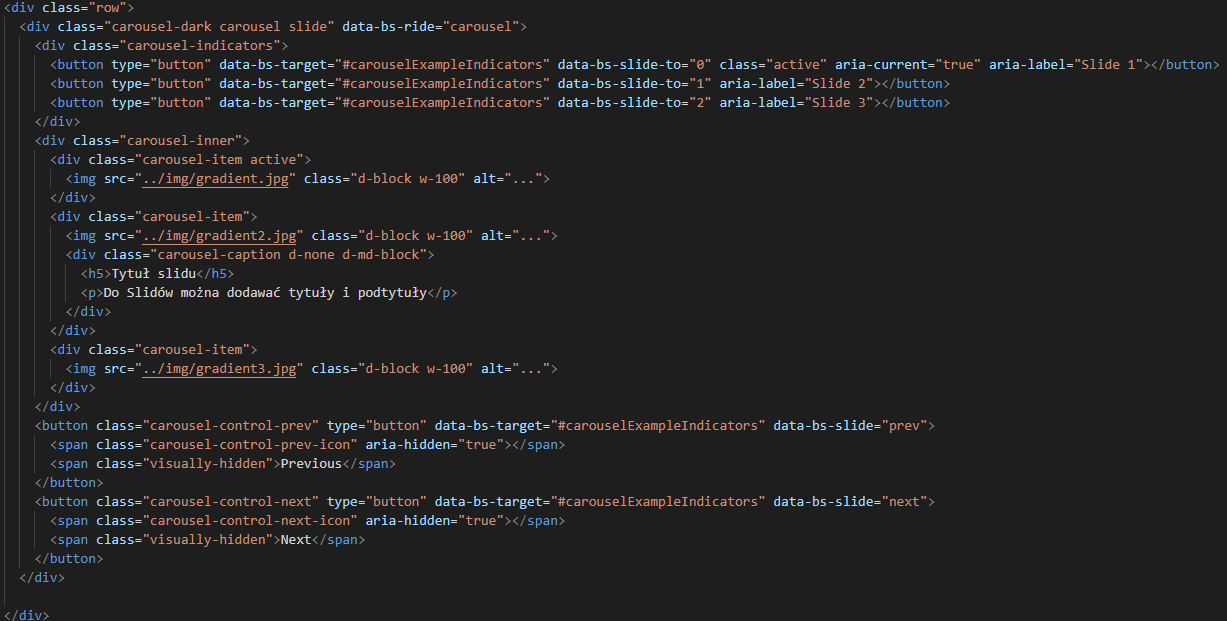
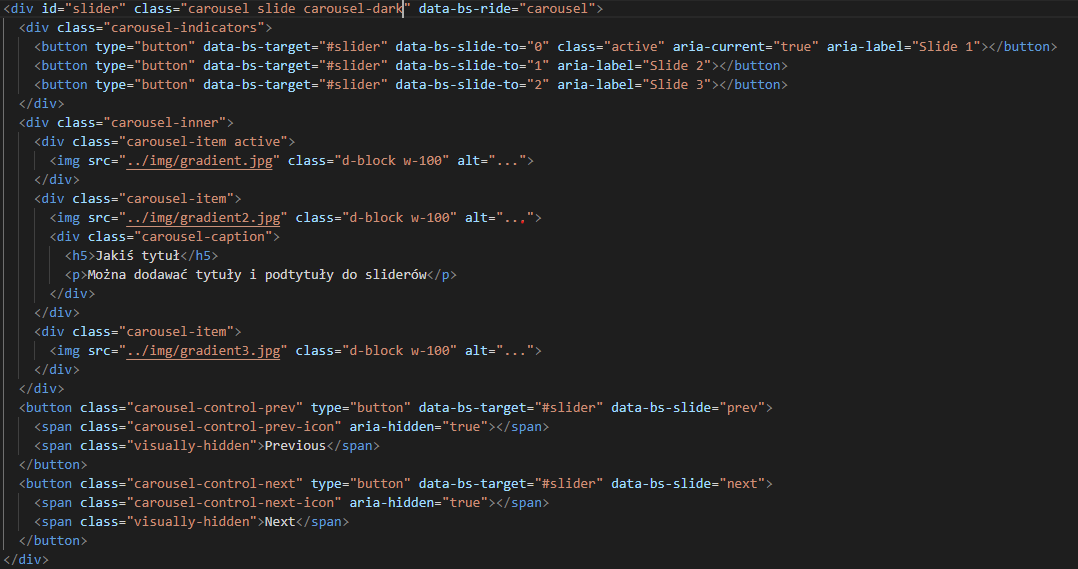
lekkie poprawki
małe poprawki w kodzie. Naprawienie slidera

Changed region(s): [[0.0, 0.0, 1.0, 1.0]]

diff --git a/Bootstrap - Elementy/slides/05.html b/Bootstrap - Elementy/slides/05.html
@@ -29,11 +29,11 @@
             <h2 class="col-12 col-md-10 col-xl-8 text-center mt-5 h-10">Slidery (karuzele)</h2>
         </div>
         <div class="row">
-          <div class="carousel-dark carousel slide" data-bs-ride="carousel">
+          <div id="slider" class="carousel slide carousel-dark" data-bs-ride="carousel">
             <div class="carousel-indicators">
-              <button type="button" data-bs-target="#carouselExampleIndicators" data-bs-slide-to="0" class="active" aria-current="true" aria-label="Slide 1"></button>
-              <button type="button" data-bs-target="#carouselExampleIndicators" data-bs-slide-to="1" aria-label="Slide 2"></button>
-              <button type="button" data-bs-target="#carouselExampleIndicators" data-bs-slide-to="2" aria-label="Slide 3"></button>
+              <button type="button" data-bs-target="#slider" data-bs-slide-to="0" class="active" aria-current="true" aria-label="Slide 1"></button>
+              <button type="button" data-bs-target="#slider" data-bs-slide-to="1" aria-label="Slide 2"></button>
+              <button type="button" data-bs-target="#slider" data-bs-slide-to="2" aria-label="Slide 3"></button>
             </div>
             <div class="carousel-inner">
               <div class="carousel-item active">
@@ -41,20 +41,20 @@
               </div>
               <div class="carousel-item">
                 <img src="../img/gradient2.jpg" class="d-block w-100" alt="...">
-                <div class="carousel-caption d-none d-md-block">
-                  <h5>Tytuł slidu</h5>
-                  <p>Do Slidów można dodawać tytuły i podtytuły</p>
+                <div class="carousel-caption">
+                  <h5>Jakiś tytuł</h5>
+                  <p>Można dodawać tytuły i podtytuły do sliderów</p>
                 </div>
               </div>
               <div class="carousel-item">
                 <img src="../img/gradient3.jpg" class="d-block w-100" alt="...">
               </div>
             </div>
-            <button class="carousel-control-prev" type="button" data-bs-target="#carouselExampleIndicators" data-bs-slide="prev">
+            <button class="carousel-control-prev" type="button" data-bs-target="#slider" data-bs-slide="prev">
               <span class="carousel-control-prev-icon" aria-hidden="true"></span>
               <span class="visually-hidden">Previous</span>
             </button>
-            <button class="carousel-control-next" type="button" data-bs-target="#carouselExampleIndicators" data-bs-slide="next">
+            <button class="carousel-control-next" type="button" data-bs-target="#slider" data-bs-slide="next">
               <span class="carousel-control-next-icon" aria-hidden="true"></span>
               <span class="visually-hidden">Next</span>
             </button>

diff --git a/Bootstrap - Info/css/nav-styles.css b/Bootstrap - Info/css/nav-styles.css
@@ -10,7 +10,6 @@ ul {
     rgba(113, 44, 249, 1) 35%,
     rgba(76, 11, 206, 1) 76%
   );
-  box-shadow: 2px 2px 6px 0 black;
 }
 
 li {
@@ -19,17 +18,17 @@ li {
 
 li:not(:first-child) a {
   display: block;
-  color: black;
+  color: white;
   text-align: center;
-  font-size: 2rem;
+  font-size: 2.5vw;
   padding: 0.8vw 1.2vw;
   text-decoration: none;
 }
 li a{
   display: block;
-  color: black;
+  color: white;
   text-align: center;
-  font-size: 2rem;
+  font-size: 2.5vw;
   text-decoration: none;
 }
 
@@ -40,8 +39,8 @@ li a:hover {
   margin-top: 0.4vw;
   margin-right: 1vw;
   margin-left: 2vw;
-  width: 80px;
-  height: 60px;
+  width: 4.8vw;
+  height: 3.6vw;
 }
 li .logo {
   display: block;

diff --git a/Bootstrap - Elementy/css/styles.css b/Bootstrap - Elementy/css/styles.css
@@ -17,33 +17,35 @@
 }
 .stick-right{
     position: fixed;
-    bottom: calc(50% - 50px);
+    bottom: calc(50% - 10rem);
     right: 2rem;
 }
 .stick-left{
     position: fixed;
-    bottom: calc(50% - 50px);
+    bottom: calc(50% - 10rem);
     left: 2rem;
 }
 .left-12{
     left: 12.5%;
 }
 .back-btn{
-    font-size: 4em;
+    font-size: 12rem;
     text-decoration: none;
     color: inherit;
     transition: all 0.5s;
 }
 .back-btn:hover{
     transform: scale(1.1);
+    color: inherit;
 }
 .br-1{
     border-radius: 1rem;
 }
 .carousel-item img{
-    width: 100%;
     height: 500px;
+    width: 100%;
 }
+
 @media screen and (min-width: 768px){
     .text-md-large{
         font-size: 1.5em;

diff --git a/Bootstrap - Elementy/css/nav-styles.css b/Bootstrap - Elementy/css/nav-styles.css
@@ -19,17 +19,17 @@ li {
 
 li:not(:first-child) a {
   display: block;
-  color: black;
+  color: white;
   text-align: center;
-  font-size: 2rem;
+  font-size: 2.5vw;
   padding: 0.8vw 1.2vw;
   text-decoration: none;
 }
 li a{
   display: block;
-  color: black;
+  color: white;
   text-align: center;
-  font-size: 2rem;
+  font-size: 2.5vw;
   text-decoration: none;
 }
 
@@ -40,8 +40,8 @@ li a:hover {
   margin-top: 0.4vw;
   margin-right: 1vw;
   margin-left: 2vw;
-  width: 80px;
-  height: 60px;
+  width: 4.8vw;
+  height: 3.6vw;
 }
 li .logo {
   display: block;

diff --git a/Bootstrap - Info/css/styles.css b/Bootstrap - Info/css/styles.css
@@ -17,25 +17,26 @@
 }
 .stick-right{
     position: fixed;
-    bottom: calc(50% - 50px);
+    bottom: calc(50% - 10rem);
     right: 2rem;
 }
 .stick-left{
     position: fixed;
-    bottom: calc(50% - 50px);
+    bottom: calc(50% - 10rem);
     left: 2rem;
 }
 .left-12{
     left: 12.5%;
 }
 .back-btn{
-    font-size: 4em;
+    font-size: 12rem;
     text-decoration: none;
     color: inherit;
     transition: all 0.5s;
 }
 .back-btn:hover{
     transform: scale(1.1);
+    color: inherit;
 }
 @media screen and (min-width: 768px){
     .text-md-large{

diff --git a/Main-styles/main.css b/Main-styles/main.css
@@ -30,7 +30,7 @@ ul {
   
   li a {
     display: block;
-    color: black;
+    color: white;
     text-align: center;
     font-size: 2rem;
     padding: 0.8vw 1.2vw;
@@ -38,6 +38,6 @@ ul {
   }
   
   li a:hover {
-    color: inherit;
+    color: white;
     background-color: rgb(137, 29, 232);
   }

diff --git a/Bootstrap - Elementy/slides/06.html b/Bootstrap - Elementy/slides/06.html
@@ -36,7 +36,7 @@
     </div>
     <div> 
         <a href="05.html" class="stick-left back-btn">&#129172;</a>
-        <a href="07.html" class="stick-right back-btn">&#129174;</a>
+        <a href="../../" class="stick-right back-btn">&#129174;</a>
     </div>
 </body>
 
